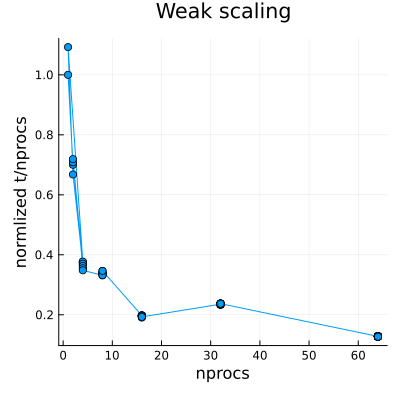
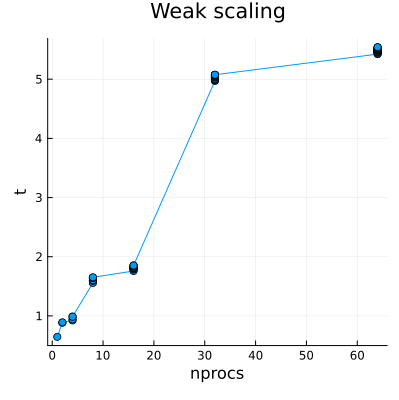
add task 5 to readme

diff --git a/lecture8/ReadMe.md b/lecture8/ReadMe.md
@@ -46,5 +46,9 @@ We have set the time to 1 in order to save compitation ressources
 The test/runtest file tests if the output of task 2 and task 3 are equilvalent
 
 ## Task 5
-Weak scaling
+The weak scaling gave the follwing result, where t is the time normailzed by the time for 1 process
 ![weak scaling](docs/weak_scaling.png)
+When devided by the number of processes it gives the following result:
+![weak scaling dev by nprocs](docs/weak_scaling%20nprocs.png)
+The result is not as expected, because the execution time should stay the same if the code scales well. 
+We have ensured that garbage collection is disabled during the time loop.
